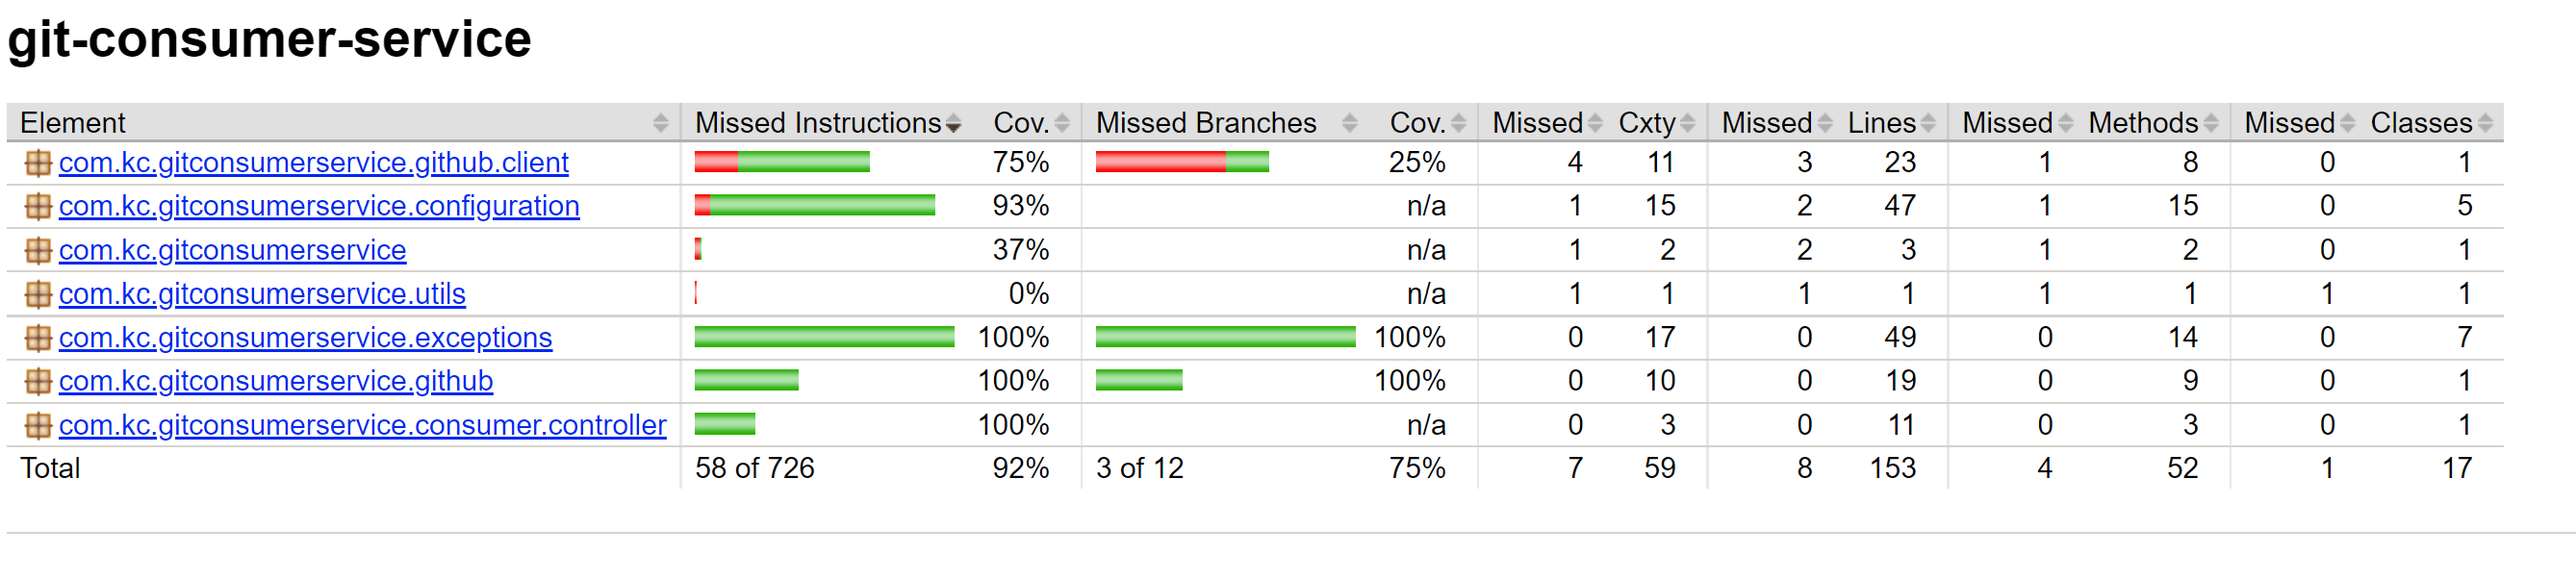
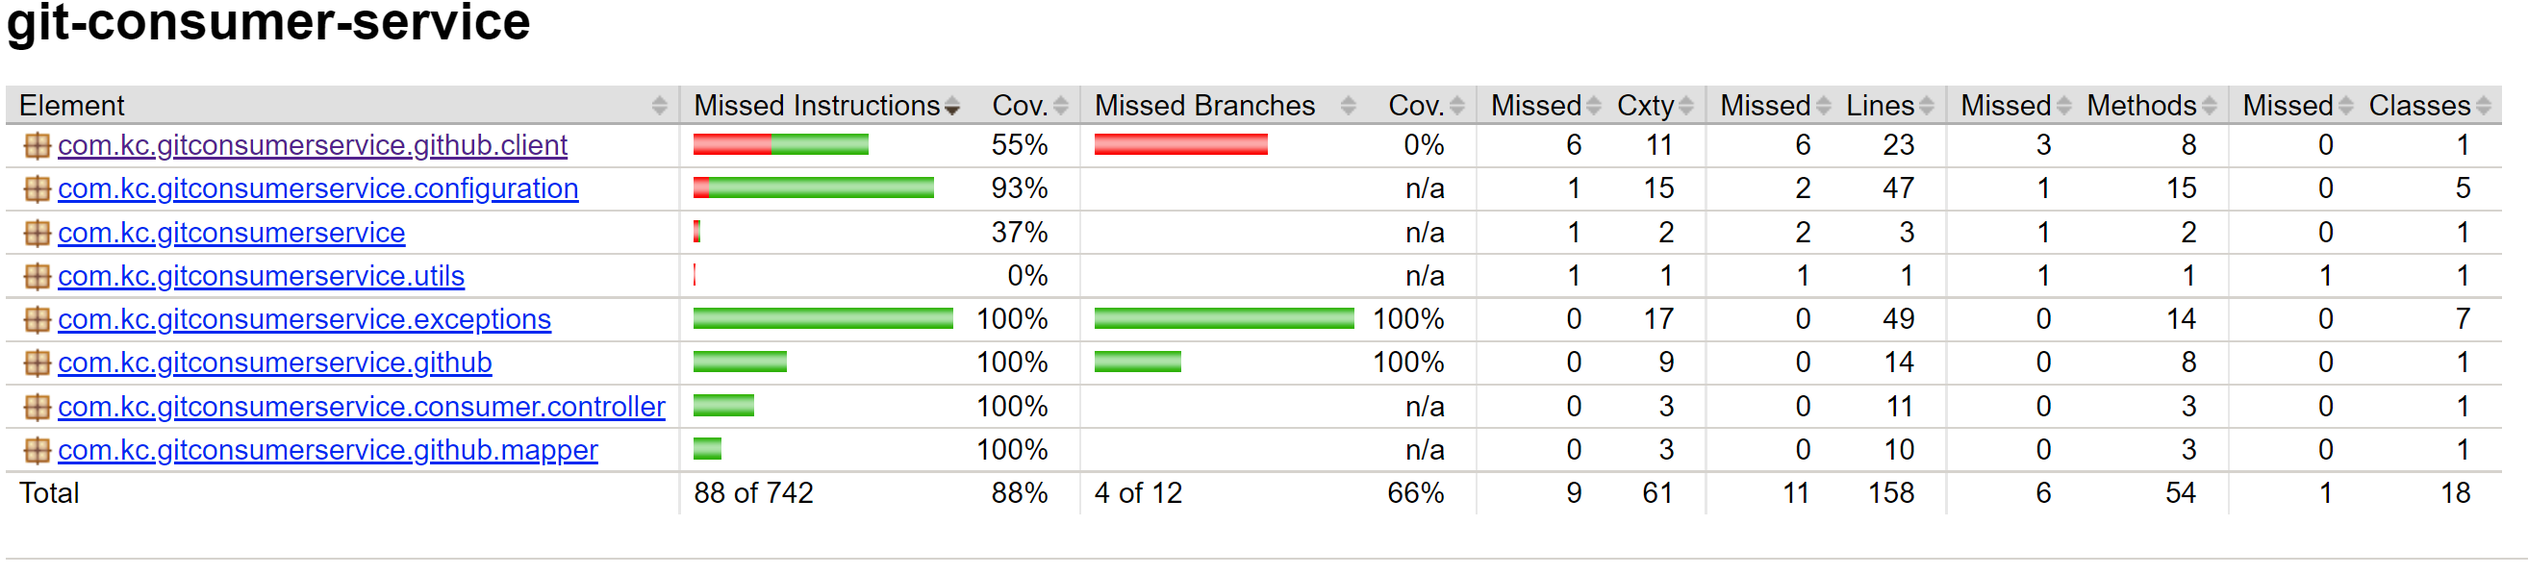
refactoring code

diff --git a/src/test/java/com/kc/gitconsumerservice/github/GitHubServiceImplTest.java b/src/test/java/com/kc/gitconsumerservice/github/GitHubServiceImplTest.java
@@ -1,5 +1,6 @@
 package com.kc.gitconsumerservice.github;
 
+import com.kc.gitconsumerservice.consumer.dto.Branch;
 import com.kc.gitconsumerservice.consumer.dto.RepoRequest;
 import com.kc.gitconsumerservice.consumer.dto.Repository;
 import com.kc.gitconsumerservice.github.client.GitHubClientImpl;
@@ -7,6 +8,7 @@ import com.kc.gitconsumerservice.github.dto.GitBranch;
 import com.kc.gitconsumerservice.github.dto.GitCommit;
 import com.kc.gitconsumerservice.github.dto.GitOwner;
 import com.kc.gitconsumerservice.github.dto.GitRepo;
+import com.kc.gitconsumerservice.github.mapper.GitSchemaMapper;
 import com.kc.gitconsumerservice.utils.TestDataConstants;
 import org.junit.jupiter.api.Test;
 import org.junit.jupiter.api.extension.ExtendWith;
@@ -14,6 +16,7 @@ import org.mockito.InjectMocks;
 import org.mockito.Mock;
 import org.mockito.Mockito;
 import org.springframework.beans.factory.annotation.Value;
+import org.springframework.context.annotation.Import;
 import org.springframework.test.context.TestPropertySource;
 import org.springframework.test.context.junit.jupiter.SpringExtension;
 import reactor.core.publisher.Flux;
@@ -26,6 +29,7 @@ import static org.mockito.ArgumentMatchers.any;
 
 @TestPropertySource(locations = "/test.properties")
 @ExtendWith(SpringExtension.class)
+@Import({GitSchemaMapper.class})
 public class GitHubServiceImplTest {
 
     @Value("${GIT_HUB_USER}")
@@ -37,12 +41,21 @@ public class GitHubServiceImplTest {
     @Mock
     private GitHubClientImpl gitHubClient;
 
+    @Mock
+    private GitSchemaMapper gitSchemaMapper;
+
     @Test
     void testGetNonForkedRepo() throws Exception {
         Flux<GitRepo> repositoryFlux = createMockRepositories();
         Flux<GitBranch> branchFlux = createMockBranches();
         Mockito.when(gitHubClient.getAllRepo(any())).thenReturn(repositoryFlux);
         Mockito.when(gitHubClient.getRepoBranches(any(), any())).thenReturn(branchFlux);
+        Mockito.when(gitSchemaMapper.mapGitBranch(createBranch1())).thenReturn(mapBranch(createBranch1()));
+        Mockito.when(gitSchemaMapper.mapGitBranch(createBranch2())).thenReturn(mapBranch(createBranch2()));
+        Mockito.when(gitSchemaMapper.mapGitRepo(createRepo1(), mapBranches()))
+                .thenReturn(mapRepo(createRepo1(), List.of(mapBranch(createBranch1()), mapBranch(createBranch2()))));
+        Mockito.when(gitSchemaMapper.mapGitRepo(createRepo2(), mapBranches()))
+                .thenReturn(mapRepo(createRepo2(), List.of(mapBranch(createBranch1()), mapBranch(createBranch2()))));
         Flux<Repository> result = gitHubService.getNonForkedRepos(RepoRequest.builder().username(gitHubUser).page(1).size(10).build());
         StepVerifier.create(result)
                 .expectNextMatches(repository ->
@@ -56,25 +69,64 @@ public class GitHubServiceImplTest {
     }
 
     private Flux<GitRepo> createMockRepositories() {
-        return Flux.fromIterable(List.of(GitRepo.builder().name(REPO_1)
-                        .owner(GitOwner.builder().login(OWNER_1).build())
-                        .fork(true)
-                        .branches(null).build(),
-                GitRepo.builder().name(REPO_2)
-                        .owner(GitOwner.builder().login(OWNER_2).build())
-                        .fork(false)
-                        .branches(null)
-                        .build()));
+        return Flux.fromIterable(List.of(createRepo1(),
+               createRepo2()));
+    }
+
+    private Repository mapRepo(GitRepo gitRepo, List<Branch> branches) {
+        return Repository.builder()
+                .name(gitRepo.getName())
+                .ownerLogin(gitRepo.getOwner().getLogin())
+                .branches(branches)
+                .build();
+    }
+
+    private Repository mapRepo2(GitRepo gitRepo, List<Branch> branches) {
+        return Repository.builder()
+                .name(gitRepo.getName())
+                .ownerLogin(gitRepo.getOwner().getLogin())
+                .branches(branches)
+                .build();
+    }
+
+    private List<Branch> mapBranches() {
+        return List.of(mapBranch(createBranch1()), mapBranch(createBranch2()));
+    }
+
+    public Branch mapBranch(GitBranch gitBranch) {
+        return Branch.builder()
+                .name(gitBranch.getName())
+                .sha(gitBranch.getCommit().getSha())
+                .build();
+    }
+
+    private GitRepo createRepo1() {
+        return GitRepo.builder().name(REPO_1)
+                .owner(GitOwner.builder().login(OWNER_1).build())
+                .fork(true)
+                .branches(null).build();
+    }
+
+    private GitRepo createRepo2() {
+        return GitRepo.builder().name(REPO_2)
+                .owner(GitOwner.builder().login(OWNER_2).build())
+                .fork(false)
+                .branches(null)
+                .build();
     }
 
     private Flux<GitBranch> createMockBranches() {
-        GitBranch branch1 = GitBranch.builder().name(BRANCH_1)
+        return Flux.fromIterable(List.of(createBranch1(), createBranch2()));
+    }
+
+    private GitBranch createBranch1() {
+        return GitBranch.builder().name(BRANCH_1)
                 .commit(GitCommit.builder().sha(SHA_1).build())
                 .build();
-
-        GitBranch branch2 = GitBranch.builder().name(BRANCH_2)
+    }
+    private GitBranch createBranch2() {
+        return GitBranch.builder().name(BRANCH_2)
                 .commit(GitCommit.builder().sha(SHA_2).build())
                 .build();
-        return Flux.fromIterable(List.of(branch1, branch2));
     }
 }

diff --git a/src/test/java/com/kc/gitconsumerservice/controller/GitHubConsumerControllerTest.java b/src/test/java/com/kc/gitconsumerservice/controller/GitHubConsumerControllerTest.java
@@ -143,7 +143,7 @@ public class GitHubConsumerControllerTest {
     }
 
     @Test
-    public void testGetAllUserRepos_TooManyRequest_Failed_429() throws Exception {
+    public void testGetAllUserRepos_TooManyRequest_Failed_403() throws Exception {
         Mockito.when(gitHubService.getNonForkedRepos(any())).thenThrow(new RateLimitException("rate limit is exceeded to github!"));
         webTestClient.get()
                 .uri(gitHubUserApiPath)
@@ -152,9 +152,9 @@ public class GitHubConsumerControllerTest {
                     headers.add(HttpHeaders.AUTHORIZATION, basicAuthHeader);
                 })
                 .exchange()
-                .expectStatus().isEqualTo(HttpStatus.TOO_MANY_REQUESTS)
+                .expectStatus().isEqualTo(HttpStatus.FORBIDDEN)
                 .expectBody()
-                .jsonPath("$.status").isEqualTo(HttpStatus.TOO_MANY_REQUESTS.value());
+                .jsonPath("$.status").isEqualTo(HttpStatus.FORBIDDEN.value());
     }
 
     @Test

diff --git a/src/main/java/com/kc/gitconsumerservice/consumer/controller/GitHubConsumerController.java b/src/main/java/com/kc/gitconsumerservice/consumer/controller/GitHubConsumerController.java
@@ -41,8 +41,11 @@ public class GitHubConsumerController {
             @ApiResponse(responseCode = "400",
                     description = "Bad Request",
             content = {@Content(mediaType = "application/json", schema = @Schema(implementation = ErrorResponse.class))}),
-            @ApiResponse(responseCode = "429",
+            @ApiResponse(responseCode = "403",
                     description = "Rate limit exceeded",
+                    content = {@Content(mediaType = "application/json", schema = @Schema(implementation = ErrorResponse.class))}),
+            @ApiResponse(responseCode = "429",
+                    description = "Too many requests",
                     content = {@Content(mediaType = "application/json", schema = @Schema(implementation = ErrorResponse.class))}),
             @ApiResponse(responseCode = "404",
                     description = "User not found",

diff --git a/src/main/java/com/kc/gitconsumerservice/exceptions/GlobalErrorAttributes.java b/src/main/java/com/kc/gitconsumerservice/exceptions/GlobalErrorAttributes.java
@@ -18,7 +18,7 @@ public class GlobalErrorAttributes extends DefaultErrorAttributes {
     private final List<ExceptionRule> exceptionsRules = List.of(
             new ExceptionRule(UserNotFoundException.class, HttpStatus.NOT_FOUND),
             new ExceptionRule(BadRequestException.class, HttpStatus.BAD_REQUEST),
-            new ExceptionRule(RateLimitException.class, HttpStatus.TOO_MANY_REQUESTS),
+            new ExceptionRule(RateLimitException.class, HttpStatus.FORBIDDEN),
             new ExceptionRule(RequestNotPermitted.class, HttpStatus.TOO_MANY_REQUESTS)
 
     );

diff --git a/src/test/java/com/kc/gitconsumerservice/GitHubConsumerIntegrationTest.java b/src/test/java/com/kc/gitconsumerservice/GitHubConsumerIntegrationTest.java
@@ -16,7 +16,6 @@ import org.springframework.test.context.TestPropertySource;
 import org.springframework.test.web.reactive.server.WebTestClient;
 import org.springframework.util.Base64Utils;
 
-
 @TestPropertySource(locations = "/test.properties")
 @SpringBootTest(webEnvironment = SpringBootTest.WebEnvironment.RANDOM_PORT, classes = GitConsumerServiceApplication.class)
 public class GitHubConsumerIntegrationTest {
